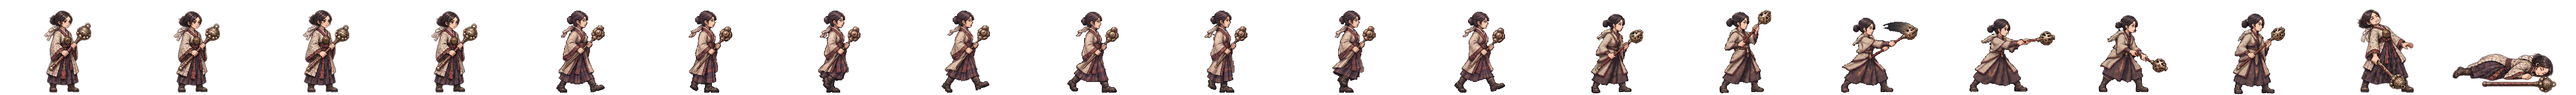
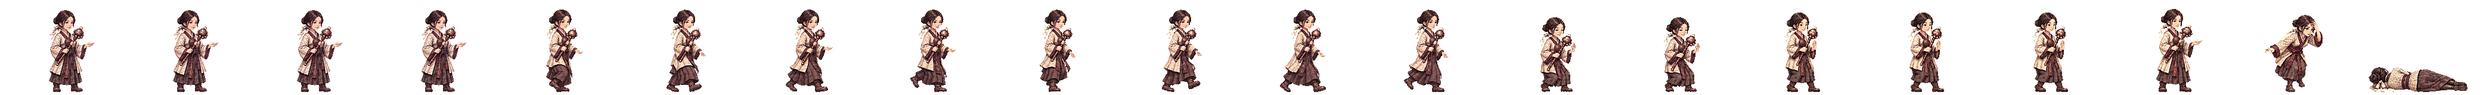
고구려 귀부인 새 띠: 공 모양 방울 막대 + 손바닥 밀기 시전·걷기·방울 흔들기·맞음·쓰러짐 (띠 검사 합격 · 옛 2배 띠 연결 뺌 · 테스트 실패 2는 76-PACE 쪽 별건)
Claude-Session: https://claude.ai/code/session_01TRiuN7s6aDfSnaHxrkctmU

diff --git a/src/realm/data/spritePx.ts b/src/realm/data/spritePx.ts
@@ -1,3 +1,3 @@
 /** public/realm/anim-px/manifest.json 의 사본 — tools/sprite-normalize.mjs 가 만든다 (손으로 고치지 말 것). 칸 [가로, 세로] · feet = 발 줄(칸 위에서 y) · bodyPx = 서 있는 몸 키 */
 import { expandManifest } from './sprite-manifest.ts'
-export const SPRITE_PX: Readonly<Record<string, { readonly cell: readonly [number, number]; readonly feet: number; readonly bodyPx: number; readonly kind: 'general' | 'soldier' | 'folk' | 'crowd'; readonly cells: number }>> = expandManifest<{ readonly cell: readonly [number, number]; readonly feet: number; readonly bodyPx: number; readonly kind: 'general' | 'soldier' | 'folk' | 'crowd'; readonly cells: number }>([{"cell":[166,128],"feet":126,"bodyPx":124,"kind":"soldier","cells":20},{"cell":[116,128],"feet":126,"bodyPx":117,"kind":"soldier","cells":20},{"cell":[127,128],"feet":126,"bodyPx":116,"kind":"soldier","cells":20},{"cell":[269,128],"feet":126,"bodyPx":126,"kind":"soldier","cells":20},{"cell":[503,128],"feet":126,"bodyPx":127,"kind":"soldier","cells":20},{"cell":[614,128],"feet":126,"bodyPx":126,"kind":"soldier","cells":20},{"cell":[200,160],"feet":156,"bodyPx":138,"kind":"general","cells":20},{"cell":[208,160],"feet":155,"bodyPx":138,"kind":"general","cells":20},{"cell":[208,160],"feet":154,"bodyPx":138,"kind":"general","cells":20},{"cell":[304,160],"feet":155,"bodyPx":135,"kind":"general","cells":20},{"cell":[184,160],"feet":156,"bodyPx":138,"kind":"general","cells":20},{"cell":[208,160],"feet":154,"bodyPx":136,"kind":"general","cells":20},{"cell":[232,160],"feet":156,"bodyPx":138,"kind":"general","cells":20},{"cell":[208,160],"feet":156,"bodyPx":138,"kind":"general","cells":20},{"cell":[168,160],"feet":156,"bodyPx":124,"kind":"general","cells":20},{"cell":[216,160],"feet":156,"bodyPx":130,"kind":"general","cells":20},{"cell":[200,160],"feet":156,"bodyPx":116,"kind":"general","cells":20},{"cell":[192,160],"feet":156,"bodyPx":138,"kind":"general","cells":20},{"cell":[208,160],"feet":154,"bodyPx":135,"kind":"general","cells":20},{"cell":[280,160],"feet":156,"bodyPx":138,"kind":"general","cells":20},{"cell":[232,160],"feet":156,"bodyPx":134,"kind":"general","cells":20},{"cell":[144,160],"feet":156,"bodyPx":70,"kind":"general","cells":20},{"cell":[208,160],"feet":156,"bodyPx":70,"kind":"general","cells":20},{"cell":[192,160],"feet":156,"bodyPx":70,"kind":"general","cells":20},{"cell":[240,160],"feet":155,"bodyPx":138,"kind":"general","cells":20},{"cell":[160,160],"feet":156,"bodyPx":135,"kind":"general","cells":20},{"cell":[192,160],"feet":156,"bodyPx":128,"kind":"general","cells":20},{"cell":[224,160],"feet":155,"bodyPx":138,"kind":"general","cells":20},{"cell":[208,160],"feet":154,"bodyPx":137,"kind":"general","cells":20},{"cell":[216,160],"feet":156,"bodyPx":138,"kind":"general","cells":20},{"cell":[208,160],"feet":156,"bodyPx":134,"kind":"general","cells":20},{"cell":[208,160],"feet":154,"bodyPx":130,"kind":"general","cells":20},{"cell":[248,160],"feet":156,"bodyPx":138,"kind":"general","cells":20},{"cell":[248,160],"feet":155,"bodyPx":138,"kind":"general","cells":20},{"cell":[192,160],"feet":155,"bodyPx":138,"kind":"general","cells":20},{"cell":[192,160],"feet":156,"bodyPx":124,"kind":"general","cells":20},{"cell":[208,160],"feet":154,"bodyPx":131,"kind":"general","cells":20},{"cell":[256,160],"feet":156,"bodyPx":138,"kind":"general","cells":20},{"cell":[240,160],"feet":156,"bodyPx":138,"kind":"general","cells":20},{"cell":[232,160],"feet":156,"bodyPx":139,"kind":"general","cells":20},{"cell":[232,160],"feet":156,"bodyPx":73,"kind":"general","cells":20},{"cell":[264,160],"feet":156,"bodyPx":138,"kind":"general","cells":20},{"cell":[224,160],"feet":156,"bodyPx":138,"kind":"general","cells":20},{"cell":[224,160],"feet":156,"bodyPx":128,"kind":"general","cells":20},{"cell":[176,160],"feet":156,"bodyPx":129,"kind":"general","cells":20},{"cell":[208,160],"feet":154,"bodyPx":139,"kind":"general","cells":20},{"cell":[232,160],"feet":155,"bodyPx":138,"kind":"general","cells":20},{"cell":[208,160],"feet":156,"bodyPx":132,"kind":"general","cells":20},{"cell":[184,160],"feet":156,"bodyPx":122,"kind":"general","cells":20},{"cell":[280,160],"feet":155,"bodyPx":133,"kind":"general","cells":20},{"cell":[176,160],"feet":156,"bodyPx":70,"kind":"general","cells":20},{"cell":[186,128],"feet":126,"bodyPx":127,"kind":"soldier","cells":20},{"cell":[298,128],"feet":126,"bodyPx":126,"kind":"soldier","cells":20},{"cell":[82,128],"feet":126,"bodyPx":114,"kind":"folk","cells":8},{"cell":[134,128],"feet":126,"bodyPx":119,"kind":"soldier","cells":20},{"cell":[380,128],"feet":126,"bodyPx":124,"kind":"soldier","cells":20},{"cell":[114,128],"feet":126,"bodyPx":115,"kind":"soldier","cells":20},{"cell":[122,128],"feet":126,"bodyPx":114,"kind":"soldier","cells":20},{"cell":[254,128],"feet":126,"bodyPx":128,"kind":"soldier","cells":20},{"cell":[438,128],"feet":126,"bodyPx":126,"kind":"soldier","cells":20},{"cell":[88,128],"feet":126,"bodyPx":113,"kind":"folk","cells":8},{"cell":[100,128],"feet":126,"bodyPx":115,"kind":"folk","cells":8},{"cell":[108,128],"feet":126,"bodyPx":115,"kind":"folk","cells":8},{"cell":[63,128],"feet":126,"bodyPx":113,"kind":"folk","cells":8},{"cell":[69,96],"feet":96,"bodyPx":96,"kind":"crowd","cells":1},{"cell":[54,96],"feet":96,"bodyPx":96,"kind":"crowd","cells":1},{"cell":[47,96],"feet":96,"bodyPx":96,"kind":"crowd","cells":1},{"cell":[49,96],"feet":96,"bodyPx":96,"kind":"crowd","cells":1},{"cell":[57,96],"feet":96,"bodyPx":96,"kind":"crowd","cells":1},{"cell":[55,96],"feet":96,"bodyPx":96,"kind":"crowd","cells":1},{"cell":[45,96],"feet":96,"bodyPx":96,"kind":"crowd","cells":1},{"cell":[53,96],"feet":96,"bodyPx":96,"kind":"crowd","cells":1},{"cell":[64,96],"feet":96,"bodyPx":96,"kind":"crowd","cells":1},{"cell":[184,160],"feet":156,"bodyPx":124,"kind":"general","cells":20},{"cell":[208,160],"feet":154,"bodyPx":134,"kind":"general","cells":20},{"cell":[224,160],"feet":156,"bodyPx":133,"kind":"general","cells":20},{"cell":[192,160],"feet":156,"bodyPx":135,"kind":"general","cells":20},{"cell":[184,160],"feet":156,"bodyPx":137,"kind":"general","cells":20},{"cell":[176,160],"feet":156,"bodyPx":130,"kind":"general","cells":20},{"cell":[216,160],"feet":156,"bodyPx":134,"kind":"general","cells":20},{"cell":[216,160],"feet":156,"bodyPx":132,"kind":"general","cells":20},{"cell":[288,160],"feet":156,"bodyPx":138,"kind":"general","cells":20},{"cell":[192,160],"feet":156,"bodyPx":118,"kind":"general","cells":20},{"cell":[208,160],"feet":154,"bodyPx":132,"kind":"general","cells":20},{"cell":[208,160],"feet":154,"bodyPx":128,"kind":"general","cells":20},{"cell":[240,160],"feet":156,"bodyPx":128,"kind":"general","cells":20},{"cell":[184,160],"feet":156,"bodyPx":132,"kind":"general","cells":20},{"cell":[208,160],"feet":156,"bodyPx":123,"kind":"general","cells":20},{"cell":[176,160],"feet":156,"bodyPx":116,"kind":"general","cells":20},{"cell":[272,160],"feet":156,"bodyPx":138,"kind":"general","cells":20},{"cell":[176,160],"feet":156,"bodyPx":138,"kind":"general","cells":20},{"cell":[176,160],"feet":156,"bodyPx":122,"kind":"general","cells":20},{"cell":[232,160],"feet":156,"bodyPx":127,"kind":"general","cells":20},{"cell":[184,160],"feet":156,"bodyPx":134,"kind":"general","cells":20},{"cell":[168,160],"feet":156,"bodyPx":138,"kind":"general","cells":20},{"cell":[176,160],"feet":156,"bodyPx":137,"kind":"general","cells":20},{"cell":[184,160],"feet":156,"bodyPx":133,"kind":"general","cells":20}],[["axe",0],["bandit-chief",1],["bandit-club",2],["boat",3],["bow",4],["crossbow",5],["gen-adogan",6],["gen-alpyeong",7],["gen-ara",8],["gen-areum",8],["gen-aryeong",9],["gen-bakdal",8],["gen-baram",8],["gen-bdanbi",10],["gen-beom",11],["gen-beombal",8],["gen-beomi",8],["gen-bira",12],["gen-biryu",13],["gen-budeul",8],["gen-byeol",8],["gen-daemusin",14],["gen-daeso",15],["gen-dallae2",10],["gen-dalli",8],["gen-damul",16],["gen-danbi",8],["gen-dangung",17],["gen-darae",18],["gen-dokmudeom",8],["gen-duman",19],["gen-eomni",8],["gen-eureum",20],["gen-g-bow",21],["gen-g-spear",22],["gen-g-sword",23],["gen-gaennae",8],["gen-gamsil",24],["gen-gaon",25],["gen-geota",13],["gen-geumbawi",10],["gen-geumha",26],["gen-goeun",13],["gen-gom",27],["gen-gomok",13],["gen-gureum",8],["gen-guryema",17],["gen-gwaeyu",12],["gen-haebi",8],["gen-haedal",6],["gen-haesol",8],["gen-halla",28],["gen-heo",8],["gen-hneoul",10],["gen-hogong",29],["gen-hojin",13],["gen-horselord",30],["gen-hwalmi",31],["gen-hyeokgeose",17],["gen-hyeopbo",6],["gen-irang",8],["gen-jibaekho",32],["gen-jinha",33],["gen-jita",34],["gen-jumong",35],["gen-keundol",7],["gen-maehwa",36],["gen-maenun",17],["gen-malgalgi",37],["gen-mari",38],["gen-maro",32],["gen-maryeo",13],["gen-mdallae",39],["gen-mir",6],["gen-mount",40],["gen-mulbeom",28],["gen-mulsae",28],["gen-musoe",29],["gen-noeul",8],["gen-nuri",41],["gen-ocheongan",42],["gen-odi",8],["gen-odogan",6],["gen-ogan",17],["gen-oi",43],["gen-olddaeso",20],["gen-onjo",44],["gen-pidogan",13],["gen-sagong",45],["gen-sdallae",6],["gen-sincheongan",8],["gen-singwigan",29],["gen-sinneoul",8],["gen-sobeol",46],["gen-soebi",6],["gen-soebo",47],["gen-soenun",45],["gen-sogeumbi",28],["gen-songbi",42],["gen-songyang",48],["gen-sori",8],["gen-soseono",49],["gen-suro",17],["gen-tahae",6],["gen-tneoul",8],["gen-w-bow",21],["gen-w-spear",50],["gen-waechief",13],["gen-wan",29],["gen-yeodogan",13],["gen-yucheongan",8],["gen-yusugan",32],["horse",51],["marine",52],["migrant",53],["militia",54],["pike",55],["pirate-captain",56],["pirate-sword",57],["shield",58],["spear",59],["villager-builder",60],["villager-farmer",61],["villager-porter",62],["villager-woman",63],["crowd-b1",64],["crowd-b2",65],["crowd-b3",66],["crowd-b4",67],["crowd-b5",68],["crowd-b6",69],["crowd-f1",64],["crowd-f2",69],["crowd-f3",70],["crowd-f4",71],["crowd-f5",64],["crowd-f6",72],["gen-dalbit",13],["gen-base-g-07-drunk-warrior",17],["gen-base-g-40-anya-adan",13],["gen-base-w-13-young-archer",8],["gen-base-g-03-sea-trader",38],["gen-base-w-10-pirate-captain",45],["gen-base-w-64-miri-dallae",45],["gen-base-g-41-goja-bau",38],["gen-base-g-42-dokro-garam",41],["gen-base-g-09-farmer-conscript",29],["gen-base-w-02-goguryeo-lady",29],["gen-base-w-17-mahan-pearl-diver",8],["gen-base-g-17-saro-isageum",47],["gen-base-g-18-daegaya-king",73],["gen-base-g-35-dabeol-dalgu",13],["gen-base-g-19-sabeol-veteran",29],["gen-base-w-23-usisan-whale-queen",8],["gen-base-g-36-gammun-gamdol",42],["gen-base-g-20-samul-sea-lord",37],["gen-base-g-37-eumjeup-jeup",10],["gen-base-g-38-chopal-palmae",17],["gen-base-w-75-daegaya-soemoe",17],["gen-base-g-45-dabeol-deulgae",10],["gen-base-g-04-jinhan-giant",13],["gen-base-g-08-veteran",13],["gen-base-w-18-jinhan-salt-widow",8],["gen-base-w-12-court-dancer",74],["gen-base-w-83-gyeonji-beodeul",75],["gen-base-w-05-baekje-queen",76],["gen-base-w-21-baekje-court-dancer",10],["gen-base-g-01-master-smith",77],["gen-base-g-93-jomun-solgae",78],["gen-base-g-57-bihwa-neup",38],["gen-base-w-72-eumjeup-beol",8],["gen-base-w-102-garak-dana",45],["gen-base-g-68-baekje-onnuri",13],["gen-base-w-27-mokji-jinha",6],["gen-base-g-22-ungcheon-gomnae",6],["gen-base-g-23-sangdang-soedal",13],["gen-base-g-24-wansan-onsan",6],["gen-base-g-25-balla-keunmoe",29],["gen-base-g-61-heomcheuk-bawi",29],["gen-base-g-88-wander-soeul",42],["gen-base-w-14-feast-spy",8],["gen-base-g-12-silla-youth",79],["gen-base-w-08-mahan-warrior",8],["gen-base-g-62-beonye-hanul",38],["gen-base-g-63-heomcheuk-beogeum",13],["gen-base-g-84-wander-seoneul",13],["gen-base-w-50-siljik-mulga",29],["gen-base-g-46-uga-nureongso",29],["gen-base-w-80-usan-gangchi",45],["gen-base-g-47-guga-sanyanggae",29],["gen-base-w-76-gampyeong-baetsagong",8],["gen-base-g-05-mahan-chieftain",80],["gen-base-g-58-usan-uhae",13],["gen-base-g-27-maek-maekdol",13],["gen-base-w-53-hwanna-gabi",45],["gen-base-w-29-golpo-janmul",32],["gen-base-g-53-baekje-haeru",6],["gen-base-w-71-yeonna-neoul",8],["gen-base-w-79-yangmaek-solmae",8],["gen-base-w-34-chopal-deulme",8],["gen-base-g-44-maga-malgup",81],["gen-base-w-31-dabeol-dalbit",45],["gen-base-g-51-biryuna-mulgyeol",42],["gen-base-g-48-gwanna-musoe",13],["gen-base-g-32-uga-sodu",12],["gen-base-g-49-goguryeo-sona",82],["gen-base-g-30-gwanna-soemoe",42],["gen-base-g-52-tamna-oreum",10],["gen-base-g-29-yeonna-myeongsol",35],["gen-base-w-56-dongokjeo-sogeum",74],["gen-base-g-54-mokji-mahan",12],["gen-base-g-33-jeoga-metdol",17],["gen-base-w-36-baekje-maena",8],["gen-base-w-38-sangdang-bulmae",6],["gen-base-w-39-gosaburi-galmae",8],["gen-base-w-40-mujin-munui",83],["gen-base-w-41-hwanna-beodeul",84],["gen-base-w-43-uga-nuri",37],["gen-base-w-45-tamna-oreumbi",10],["gen-base-g-60-golbeol-golgae",10],["gen-base-g-61-apdok-ap",29],["gen-base-g-62-gammun-gamnamu",6],["gen-base-g-63-chopal-yeoul",32],["gen-base-g-64-michuhol-sogeumkkun",38],["gen-base-g-65-sangdang-soemangchi",42],["gen-base-g-66-geonma-malbalgup",85],["gen-base-g-67-gosaburi-buri",86],["gen-base-g-68-mujin-bitgoeul",10],["gen-base-g-69-goryong-yong",42],["gen-base-g-70-siljik-pado",38],["gen-base-w-81-byeokjin-byeolbit",8],["gen-base-w-46-geonma-maru",8],["gen-base-w-48-mujin-mudeung",8],["gen-base-g-26-gampyeong-gaetbeol",12],["gen-base-g-60-eupcha-hangyeol",87],["gen-base-g-15-shaman-man",29],["gen-base-g-85-wander-ure",32],["gen-base-g-43-hwanna-amnok",13],["gen-base-g-50-bullae-gwaha",76],["gen-base-g-55-saro-bakdal",13],["gen-base-g-56-haseulla-gwahama",6],["gen-base-w-06-buyeo-huntress",28],["gen-base-w-22-dongye-tiger-huntress",8],["gen-base-w-25-bihwa-priestess",8],["gen-base-w-24-apdok-queen",10],["gen-base-w-61-iseo-sinae",13],["gen-base-w-26-iseo-tomboy-general",8],["gen-base-g-59-yangmaek-maekson",88],["gen-aw1-haebi",42],["gen-aw1-soseono",89],["gen-aw1-gamsil",10],["gen-aw1-mir",90],["gen-aw1-dangung",6],["gen-aw1-ara",42],["gen-aw1-jumong",91],["gen-aw1-onjo",92],["gen-aw1-base-w-83-gyeonji-beodeul",17],["gen-aw1-heo",41],["gen-aw1-base-g-38-chopal-palmae",6],["gen-aw1-base-w-25-bihwa-priestess",93],["gen-aw1-sori",94],["gen-aw1-gomok",6],["gen-aw1-irang",17],["gen-aw1-budeul",94],["gen-aw1-gom",38],["gen-aw1-sdallae",6],["gen-aw1-base-w-13-young-archer",6],["gen-aw1-base-w-36-baekje-maena",95],["gen-aw1-base-g-09-farmer-conscript",41],["gen-aw1-base-w-02-goguryeo-lady",96],["gen-aw1-haedal",10],["gen-aw1-hogong",6],["gen-aw1-maehwa",90],["gen-aw1-base-w-06-buyeo-huntress",12],["gen-aw1-base-w-08-mahan-warrior",42],["gen-aw1-base-w-29-golpo-janmul",42],["gen-aw1-base-w-31-dabeol-dalbit",17],["gen-aw1-base-w-38-sangdang-bulmae",94],["gen-aw1-bira",29],["gen-aw1-base-w-53-hwanna-gabi",94],["gen-aw1-base-w-56-dongokjeo-sogeum",90],["gen-aw1-base-w-72-eumjeup-beol",17],["gen-aw1-bdanbi",94],["gen-aw1-beom",10],["gen-aw1-beombal",10],["gen-aw1-byeol",17],["gen-aw1-dalli",90],["gen-aw1-malgalgi",32],["gen-aw1-sincheongan",29]])
+export const SPRITE_PX: Readonly<Record<string, { readonly cell: readonly [number, number]; readonly feet: number; readonly bodyPx: number; readonly kind: 'general' | 'soldier' | 'folk' | 'crowd'; readonly cells: number }>> = expandManifest<{ readonly cell: readonly [number, number]; readonly feet: number; readonly bodyPx: number; readonly kind: 'general' | 'soldier' | 'folk' | 'crowd'; readonly cells: number }>([{"cell":[166,128],"feet":126,"bodyPx":124,"kind":"soldier","cells":20},{"cell":[116,128],"feet":126,"bodyPx":117,"kind":"soldier","cells":20},{"cell":[127,128],"feet":126,"bodyPx":116,"kind":"soldier","cells":20},{"cell":[269,128],"feet":126,"bodyPx":126,"kind":"soldier","cells":20},{"cell":[503,128],"feet":126,"bodyPx":127,"kind":"soldier","cells":20},{"cell":[614,128],"feet":126,"bodyPx":126,"kind":"soldier","cells":20},{"cell":[200,160],"feet":156,"bodyPx":138,"kind":"general","cells":20},{"cell":[208,160],"feet":155,"bodyPx":138,"kind":"general","cells":20},{"cell":[208,160],"feet":154,"bodyPx":138,"kind":"general","cells":20},{"cell":[304,160],"feet":155,"bodyPx":135,"kind":"general","cells":20},{"cell":[184,160],"feet":156,"bodyPx":138,"kind":"general","cells":20},{"cell":[208,160],"feet":154,"bodyPx":136,"kind":"general","cells":20},{"cell":[232,160],"feet":156,"bodyPx":138,"kind":"general","cells":20},{"cell":[208,160],"feet":156,"bodyPx":138,"kind":"general","cells":20},{"cell":[168,160],"feet":156,"bodyPx":124,"kind":"general","cells":20},{"cell":[216,160],"feet":156,"bodyPx":130,"kind":"general","cells":20},{"cell":[200,160],"feet":156,"bodyPx":116,"kind":"general","cells":20},{"cell":[192,160],"feet":156,"bodyPx":138,"kind":"general","cells":20},{"cell":[208,160],"feet":154,"bodyPx":135,"kind":"general","cells":20},{"cell":[280,160],"feet":156,"bodyPx":138,"kind":"general","cells":20},{"cell":[232,160],"feet":156,"bodyPx":134,"kind":"general","cells":20},{"cell":[144,160],"feet":156,"bodyPx":70,"kind":"general","cells":20},{"cell":[208,160],"feet":156,"bodyPx":70,"kind":"general","cells":20},{"cell":[192,160],"feet":156,"bodyPx":70,"kind":"general","cells":20},{"cell":[240,160],"feet":155,"bodyPx":138,"kind":"general","cells":20},{"cell":[160,160],"feet":156,"bodyPx":135,"kind":"general","cells":20},{"cell":[192,160],"feet":156,"bodyPx":128,"kind":"general","cells":20},{"cell":[224,160],"feet":155,"bodyPx":138,"kind":"general","cells":20},{"cell":[208,160],"feet":154,"bodyPx":137,"kind":"general","cells":20},{"cell":[216,160],"feet":156,"bodyPx":138,"kind":"general","cells":20},{"cell":[208,160],"feet":156,"bodyPx":134,"kind":"general","cells":20},{"cell":[208,160],"feet":154,"bodyPx":130,"kind":"general","cells":20},{"cell":[248,160],"feet":156,"bodyPx":138,"kind":"general","cells":20},{"cell":[248,160],"feet":155,"bodyPx":138,"kind":"general","cells":20},{"cell":[192,160],"feet":155,"bodyPx":138,"kind":"general","cells":20},{"cell":[192,160],"feet":156,"bodyPx":124,"kind":"general","cells":20},{"cell":[208,160],"feet":154,"bodyPx":131,"kind":"general","cells":20},{"cell":[256,160],"feet":156,"bodyPx":138,"kind":"general","cells":20},{"cell":[240,160],"feet":156,"bodyPx":138,"kind":"general","cells":20},{"cell":[232,160],"feet":156,"bodyPx":139,"kind":"general","cells":20},{"cell":[232,160],"feet":156,"bodyPx":73,"kind":"general","cells":20},{"cell":[264,160],"feet":156,"bodyPx":138,"kind":"general","cells":20},{"cell":[224,160],"feet":156,"bodyPx":138,"kind":"general","cells":20},{"cell":[224,160],"feet":156,"bodyPx":128,"kind":"general","cells":20},{"cell":[176,160],"feet":156,"bodyPx":129,"kind":"general","cells":20},{"cell":[208,160],"feet":154,"bodyPx":139,"kind":"general","cells":20},{"cell":[232,160],"feet":155,"bodyPx":138,"kind":"general","cells":20},{"cell":[208,160],"feet":156,"bodyPx":132,"kind":"general","cells":20},{"cell":[184,160],"feet":156,"bodyPx":122,"kind":"general","cells":20},{"cell":[280,160],"feet":155,"bodyPx":133,"kind":"general","cells":20},{"cell":[176,160],"feet":156,"bodyPx":70,"kind":"general","cells":20},{"cell":[186,128],"feet":126,"bodyPx":127,"kind":"soldier","cells":20},{"cell":[298,128],"feet":126,"bodyPx":126,"kind":"soldier","cells":20},{"cell":[82,128],"feet":126,"bodyPx":114,"kind":"folk","cells":8},{"cell":[134,128],"feet":126,"bodyPx":119,"kind":"soldier","cells":20},{"cell":[380,128],"feet":126,"bodyPx":124,"kind":"soldier","cells":20},{"cell":[114,128],"feet":126,"bodyPx":115,"kind":"soldier","cells":20},{"cell":[122,128],"feet":126,"bodyPx":114,"kind":"soldier","cells":20},{"cell":[254,128],"feet":126,"bodyPx":128,"kind":"soldier","cells":20},{"cell":[438,128],"feet":126,"bodyPx":126,"kind":"soldier","cells":20},{"cell":[88,128],"feet":126,"bodyPx":113,"kind":"folk","cells":8},{"cell":[100,128],"feet":126,"bodyPx":115,"kind":"folk","cells":8},{"cell":[108,128],"feet":126,"bodyPx":115,"kind":"folk","cells":8},{"cell":[63,128],"feet":126,"bodyPx":113,"kind":"folk","cells":8},{"cell":[69,96],"feet":96,"bodyPx":96,"kind":"crowd","cells":1},{"cell":[54,96],"feet":96,"bodyPx":96,"kind":"crowd","cells":1},{"cell":[47,96],"feet":96,"bodyPx":96,"kind":"crowd","cells":1},{"cell":[49,96],"feet":96,"bodyPx":96,"kind":"crowd","cells":1},{"cell":[57,96],"feet":96,"bodyPx":96,"kind":"crowd","cells":1},{"cell":[55,96],"feet":96,"bodyPx":96,"kind":"crowd","cells":1},{"cell":[45,96],"feet":96,"bodyPx":96,"kind":"crowd","cells":1},{"cell":[53,96],"feet":96,"bodyPx":96,"kind":"crowd","cells":1},{"cell":[64,96],"feet":96,"bodyPx":96,"kind":"crowd","cells":1},{"cell":[184,160],"feet":156,"bodyPx":124,"kind":"general","cells":20},{"cell":[208,160],"feet":154,"bodyPx":134,"kind":"general","cells":20},{"cell":[224,160],"feet":156,"bodyPx":133,"kind":"general","cells":20},{"cell":[192,160],"feet":156,"bodyPx":135,"kind":"general","cells":20},{"cell":[184,160],"feet":156,"bodyPx":137,"kind":"general","cells":20},{"cell":[176,160],"feet":156,"bodyPx":130,"kind":"general","cells":20},{"cell":[216,160],"feet":156,"bodyPx":134,"kind":"general","cells":20},{"cell":[216,160],"feet":156,"bodyPx":132,"kind":"general","cells":20},{"cell":[288,160],"feet":156,"bodyPx":138,"kind":"general","cells":20},{"cell":[192,160],"feet":156,"bodyPx":118,"kind":"general","cells":20},{"cell":[208,160],"feet":154,"bodyPx":132,"kind":"general","cells":20},{"cell":[208,160],"feet":154,"bodyPx":128,"kind":"general","cells":20},{"cell":[240,160],"feet":156,"bodyPx":128,"kind":"general","cells":20},{"cell":[184,160],"feet":156,"bodyPx":132,"kind":"general","cells":20},{"cell":[208,160],"feet":156,"bodyPx":123,"kind":"general","cells":20},{"cell":[176,160],"feet":156,"bodyPx":116,"kind":"general","cells":20},{"cell":[272,160],"feet":156,"bodyPx":138,"kind":"general","cells":20},{"cell":[176,160],"feet":156,"bodyPx":138,"kind":"general","cells":20},{"cell":[176,160],"feet":156,"bodyPx":122,"kind":"general","cells":20},{"cell":[232,160],"feet":156,"bodyPx":127,"kind":"general","cells":20},{"cell":[184,160],"feet":156,"bodyPx":134,"kind":"general","cells":20},{"cell":[168,160],"feet":156,"bodyPx":138,"kind":"general","cells":20},{"cell":[176,160],"feet":156,"bodyPx":137,"kind":"general","cells":20},{"cell":[184,160],"feet":156,"bodyPx":133,"kind":"general","cells":20}],[["axe",0],["bandit-chief",1],["bandit-club",2],["boat",3],["bow",4],["crossbow",5],["gen-adogan",6],["gen-alpyeong",7],["gen-ara",8],["gen-areum",8],["gen-aryeong",9],["gen-bakdal",8],["gen-baram",8],["gen-bdanbi",10],["gen-beom",11],["gen-beombal",8],["gen-beomi",8],["gen-bira",12],["gen-biryu",13],["gen-budeul",8],["gen-byeol",8],["gen-daemusin",14],["gen-daeso",15],["gen-dallae2",10],["gen-dalli",8],["gen-damul",16],["gen-danbi",8],["gen-dangung",17],["gen-darae",18],["gen-dokmudeom",8],["gen-duman",19],["gen-eomni",8],["gen-eureum",20],["gen-g-bow",21],["gen-g-spear",22],["gen-g-sword",23],["gen-gaennae",8],["gen-gamsil",24],["gen-gaon",25],["gen-geota",13],["gen-geumbawi",10],["gen-geumha",26],["gen-goeun",13],["gen-gom",27],["gen-gomok",13],["gen-gureum",8],["gen-guryema",17],["gen-gwaeyu",12],["gen-haebi",8],["gen-haedal",6],["gen-haesol",8],["gen-halla",28],["gen-heo",8],["gen-hneoul",10],["gen-hogong",29],["gen-hojin",13],["gen-horselord",30],["gen-hwalmi",31],["gen-hyeokgeose",17],["gen-hyeopbo",6],["gen-irang",8],["gen-jibaekho",32],["gen-jinha",33],["gen-jita",34],["gen-jumong",35],["gen-keundol",7],["gen-maehwa",36],["gen-maenun",17],["gen-malgalgi",37],["gen-mari",38],["gen-maro",32],["gen-maryeo",13],["gen-mdallae",39],["gen-mir",6],["gen-mount",40],["gen-mulbeom",28],["gen-mulsae",28],["gen-musoe",29],["gen-noeul",8],["gen-nuri",41],["gen-ocheongan",42],["gen-odi",8],["gen-odogan",6],["gen-ogan",17],["gen-oi",43],["gen-olddaeso",20],["gen-onjo",44],["gen-pidogan",13],["gen-sagong",45],["gen-sdallae",6],["gen-sincheongan",8],["gen-singwigan",29],["gen-sinneoul",8],["gen-sobeol",46],["gen-soebi",6],["gen-soebo",47],["gen-soenun",45],["gen-sogeumbi",28],["gen-songbi",42],["gen-songyang",48],["gen-sori",8],["gen-soseono",49],["gen-suro",17],["gen-tahae",6],["gen-tneoul",8],["gen-w-bow",21],["gen-w-spear",50],["gen-waechief",13],["gen-wan",29],["gen-yeodogan",13],["gen-yucheongan",8],["gen-yusugan",32],["horse",51],["marine",52],["migrant",53],["militia",54],["pike",55],["pirate-captain",56],["pirate-sword",57],["shield",58],["spear",59],["villager-builder",60],["villager-farmer",61],["villager-porter",62],["villager-woman",63],["crowd-b1",64],["crowd-b2",65],["crowd-b3",66],["crowd-b4",67],["crowd-b5",68],["crowd-b6",69],["crowd-f1",64],["crowd-f2",69],["crowd-f3",70],["crowd-f4",71],["crowd-f5",64],["crowd-f6",72],["gen-dalbit",13],["gen-base-g-07-drunk-warrior",17],["gen-base-g-40-anya-adan",13],["gen-base-w-13-young-archer",8],["gen-base-g-03-sea-trader",38],["gen-base-w-10-pirate-captain",45],["gen-base-w-64-miri-dallae",45],["gen-base-g-41-goja-bau",38],["gen-base-g-42-dokro-garam",41],["gen-base-g-09-farmer-conscript",29],["gen-base-w-02-goguryeo-lady",8],["gen-base-w-17-mahan-pearl-diver",8],["gen-base-g-17-saro-isageum",47],["gen-base-g-18-daegaya-king",73],["gen-base-g-35-dabeol-dalgu",13],["gen-base-g-19-sabeol-veteran",29],["gen-base-w-23-usisan-whale-queen",8],["gen-base-g-36-gammun-gamdol",42],["gen-base-g-20-samul-sea-lord",37],["gen-base-g-37-eumjeup-jeup",10],["gen-base-g-38-chopal-palmae",17],["gen-base-w-75-daegaya-soemoe",17],["gen-base-g-45-dabeol-deulgae",10],["gen-base-g-04-jinhan-giant",13],["gen-base-g-08-veteran",13],["gen-base-w-18-jinhan-salt-widow",8],["gen-base-w-12-court-dancer",74],["gen-base-w-83-gyeonji-beodeul",75],["gen-base-w-05-baekje-queen",76],["gen-base-w-21-baekje-court-dancer",10],["gen-base-g-01-master-smith",77],["gen-base-g-93-jomun-solgae",78],["gen-base-g-57-bihwa-neup",38],["gen-base-w-72-eumjeup-beol",8],["gen-base-w-102-garak-dana",45],["gen-base-g-68-baekje-onnuri",13],["gen-base-w-27-mokji-jinha",6],["gen-base-g-22-ungcheon-gomnae",6],["gen-base-g-23-sangdang-soedal",13],["gen-base-g-24-wansan-onsan",6],["gen-base-g-25-balla-keunmoe",29],["gen-base-g-61-heomcheuk-bawi",29],["gen-base-g-88-wander-soeul",42],["gen-base-w-14-feast-spy",8],["gen-base-g-12-silla-youth",79],["gen-base-w-08-mahan-warrior",8],["gen-base-g-62-beonye-hanul",38],["gen-base-g-63-heomcheuk-beogeum",13],["gen-base-g-84-wander-seoneul",13],["gen-base-w-50-siljik-mulga",29],["gen-base-g-46-uga-nureongso",29],["gen-base-w-80-usan-gangchi",45],["gen-base-g-47-guga-sanyanggae",29],["gen-base-w-76-gampyeong-baetsagong",8],["gen-base-g-05-mahan-chieftain",80],["gen-base-g-58-usan-uhae",13],["gen-base-g-27-maek-maekdol",13],["gen-base-w-53-hwanna-gabi",45],["gen-base-w-29-golpo-janmul",32],["gen-base-g-53-baekje-haeru",6],["gen-base-w-71-yeonna-neoul",8],["gen-base-w-79-yangmaek-solmae",8],["gen-base-w-34-chopal-deulme",8],["gen-base-g-44-maga-malgup",81],["gen-base-w-31-dabeol-dalbit",45],["gen-base-g-51-biryuna-mulgyeol",42],["gen-base-g-48-gwanna-musoe",13],["gen-base-g-32-uga-sodu",12],["gen-base-g-49-goguryeo-sona",82],["gen-base-g-30-gwanna-soemoe",42],["gen-base-g-52-tamna-oreum",10],["gen-base-g-29-yeonna-myeongsol",35],["gen-base-w-56-dongokjeo-sogeum",74],["gen-base-g-54-mokji-mahan",12],["gen-base-g-33-jeoga-metdol",17],["gen-base-w-36-baekje-maena",8],["gen-base-w-38-sangdang-bulmae",6],["gen-base-w-39-gosaburi-galmae",8],["gen-base-w-40-mujin-munui",83],["gen-base-w-41-hwanna-beodeul",84],["gen-base-w-43-uga-nuri",37],["gen-base-w-45-tamna-oreumbi",10],["gen-base-g-60-golbeol-golgae",10],["gen-base-g-61-apdok-ap",29],["gen-base-g-62-gammun-gamnamu",6],["gen-base-g-63-chopal-yeoul",32],["gen-base-g-64-michuhol-sogeumkkun",38],["gen-base-g-65-sangdang-soemangchi",42],["gen-base-g-66-geonma-malbalgup",85],["gen-base-g-67-gosaburi-buri",86],["gen-base-g-68-mujin-bitgoeul",10],["gen-base-g-69-goryong-yong",42],["gen-base-g-70-siljik-pado",38],["gen-base-w-81-byeokjin-byeolbit",8],["gen-base-w-46-geonma-maru",8],["gen-base-w-48-mujin-mudeung",8],["gen-base-g-26-gampyeong-gaetbeol",12],["gen-base-g-60-eupcha-hangyeol",87],["gen-base-g-15-shaman-man",29],["gen-base-g-85-wander-ure",32],["gen-base-g-43-hwanna-amnok",13],["gen-base-g-50-bullae-gwaha",76],["gen-base-g-55-saro-bakdal",13],["gen-base-g-56-haseulla-gwahama",6],["gen-base-w-06-buyeo-huntress",28],["gen-base-w-22-dongye-tiger-huntress",8],["gen-base-w-25-bihwa-priestess",8],["gen-base-w-24-apdok-queen",10],["gen-base-w-61-iseo-sinae",13],["gen-base-w-26-iseo-tomboy-general",8],["gen-base-g-59-yangmaek-maekson",88],["gen-aw1-haebi",42],["gen-aw1-soseono",89],["gen-aw1-gamsil",10],["gen-aw1-mir",90],["gen-aw1-dangung",6],["gen-aw1-ara",42],["gen-aw1-jumong",91],["gen-aw1-onjo",92],["gen-aw1-base-w-83-gyeonji-beodeul",17],["gen-aw1-heo",41],["gen-aw1-base-g-38-chopal-palmae",6],["gen-aw1-base-w-25-bihwa-priestess",93],["gen-aw1-sori",94],["gen-aw1-gomok",6],["gen-aw1-irang",17],["gen-aw1-budeul",94],["gen-aw1-gom",38],["gen-aw1-sdallae",6],["gen-aw1-base-w-13-young-archer",6],["gen-aw1-base-w-36-baekje-maena",95],["gen-aw1-base-g-09-farmer-conscript",41],["gen-aw1-base-w-02-goguryeo-lady",96],["gen-aw1-haedal",10],["gen-aw1-hogong",6],["gen-aw1-maehwa",90],["gen-aw1-base-w-06-buyeo-huntress",12],["gen-aw1-base-w-08-mahan-warrior",42],["gen-aw1-base-w-29-golpo-janmul",42],["gen-aw1-base-w-31-dabeol-dalbit",17],["gen-aw1-base-w-38-sangdang-bulmae",94],["gen-aw1-bira",29],["gen-aw1-base-w-53-hwanna-gabi",94],["gen-aw1-base-w-56-dongokjeo-sogeum",90],["gen-aw1-base-w-72-eumjeup-beol",17],["gen-aw1-bdanbi",94],["gen-aw1-beom",10],["gen-aw1-beombal",10],["gen-aw1-byeol",17],["gen-aw1-dalli",90],["gen-aw1-malgalgi",32],["gen-aw1-sincheongan",29]])

diff --git a/src/duel/view.ts b/src/duel/view.ts
@@ -100,7 +100,7 @@ const crowdFront = [1, 2, 3, 4, 5, 6].map((i) => img(`realm/duel/crowd/b${i}.png
 const crowdReady = (set: HTMLImageElement[]): boolean => set.every((im) => im.complete && im.naturalWidth > 0)
 const pxMode = cfg.px !== false && params.get('px') !== '0'
 /** 겨루기 전용 옛 띠(duel/sprites) 대신 열전과 같은 도트 띠(anim-px)를 쓰는 장수 — 두 판에서 같은 모습 · 서기 계획·쓰러지는 칸도 같다 (11-23 범 · 매화 · 달빛 · 11-24 해비 · 아룸) */
-const PX_DUEL: ReadonlySet<string> = new Set(['beom', 'maehwa', 'base-w-31-dabeol-dalbit', 'haebi', 'areum', 'base-w-13-young-archer', 'base-w-10-pirate-captain', 'base-w-17-mahan-pearl-diver', 'base-w-06-buyeo-huntress', 'base-w-64-miri-dallae', 'ara', 'base-w-22-dongye-tiger-huntress', 'noeul', 'sagong', 'sinneoul', 'heo', 'base-w-08-mahan-warrior', 'base-w-23-usisan-whale-queen', 'base-w-26-iseo-tomboy-general', 'base-w-72-eumjeup-beol', 'tneoul', 'odi', 'base-w-76-gampyeong-baetsagong', 'base-w-34-chopal-deulme', 'base-w-102-garak-dana', 'base-w-36-baekje-maena', 'base-w-56-dongokjeo-sogeum', 'budeul', 'base-w-53-hwanna-gabi', 'base-w-18-jinhan-salt-widow', 'beombal', 'irang', 'sogeumbi', 'baram', 'byeol', 'base-w-71-yeonna-neoul', 'base-w-39-gosaburi-galmae', 'base-w-41-hwanna-beodeul', 'base-w-79-yangmaek-solmae', 'base-w-46-geonma-maru', 'base-w-48-mujin-mudeung', 'base-w-80-usan-gangchi', 'base-w-81-byeokjin-byeolbit', 'beomi', 'danbi', 'dalli', 'gureum', 'haesol', 'soenun', 'eomni', 'mulbeom', 'mulsae', 'bakdal', 'darae', 'sori', 'base-w-12-court-dancer', 'hwalmi', 'gaennae', 'dokmudeom', 'base-w-14-feast-spy', 'base-w-25-bihwa-priestess', 'sincheongan', 'base-w-40-mujin-munui', 'halla', 'yucheongan'])
+const PX_DUEL: ReadonlySet<string> = new Set(['beom', 'maehwa', 'base-w-31-dabeol-dalbit', 'haebi', 'areum', 'base-w-13-young-archer', 'base-w-10-pirate-captain', 'base-w-17-mahan-pearl-diver', 'base-w-06-buyeo-huntress', 'base-w-64-miri-dallae', 'ara', 'base-w-22-dongye-tiger-huntress', 'noeul', 'sagong', 'sinneoul', 'heo', 'base-w-08-mahan-warrior', 'base-w-23-usisan-whale-queen', 'base-w-26-iseo-tomboy-general', 'base-w-72-eumjeup-beol', 'tneoul', 'odi', 'base-w-76-gampyeong-baetsagong', 'base-w-34-chopal-deulme', 'base-w-102-garak-dana', 'base-w-36-baekje-maena', 'base-w-56-dongokjeo-sogeum', 'budeul', 'base-w-53-hwanna-gabi', 'base-w-18-jinhan-salt-widow', 'beombal', 'irang', 'sogeumbi', 'baram', 'byeol', 'base-w-71-yeonna-neoul', 'base-w-39-gosaburi-galmae', 'base-w-41-hwanna-beodeul', 'base-w-79-yangmaek-solmae', 'base-w-46-geonma-maru', 'base-w-48-mujin-mudeung', 'base-w-80-usan-gangchi', 'base-w-81-byeokjin-byeolbit', 'beomi', 'danbi', 'dalli', 'gureum', 'haesol', 'soenun', 'eomni', 'mulbeom', 'mulsae', 'bakdal', 'darae', 'sori', 'base-w-12-court-dancer', 'hwalmi', 'gaennae', 'dokmudeom', 'base-w-14-feast-spy', 'base-w-25-bihwa-priestess', 'sincheongan', 'base-w-40-mujin-munui', 'halla', 'yucheongan', 'base-w-02-goguryeo-lady'])
 /** 띠 그림 — 기본은 anim-px(도트 규격) 먼저, 없으면 옛 띠로 (img 의 onerror 가 갈아 끼운다) */
 const strip = (s: string): HTMLImageElement => pxMode
   ? DUEL_ATLASES[s] !== undefined && !PX_DUEL.has(s) ? img(`realm/duel/sprites/gen-${s}.png`, `realm/anim-px/gen-${s}.png`)

diff --git a/src/tune/params.ts b/src/tune/params.ts
@@ -1525,6 +1525,7 @@ export const HAEBI_IDLE = {
     'base-w-40-mujin-munui': { cells: 38, base: [0, 1], hold: 2.4, fall: [18, 20, 21, 19], quirk: [22, 23, 24, 25], quirkTimes: [.28, .3, .3, .25], attack: { cells: [26, 27, 28, 29, 30, 31, 32, 33], times: [.09, .08, .30, .05, .15, .07, .08, .12], hit: 4 }, hurt: [34, 35], rise: [36, 37], xGeom: { h: 224, root: 92, foot: 216 } },
     halla: { cells: 38, base: [0, 1], hold: 2.4, fall: [18, 20, 21, 19], quirk: [22, 23, 24, 25], quirkTimes: [.28, .3, .3, .25], attack: { cells: [26, 27, 28, 29, 30, 31, 32, 33], times: [.09, .08, .30, .05, .15, .07, .08, .12], hit: 4 }, hurt: [34, 35], rise: [36, 37], xGeom: { h: 224, root: 92, foot: 216 } },
     yucheongan: { cells: 38, base: [0, 1], hold: 2.4, fall: [18, 20, 21, 19], quirk: [22, 23, 24, 25], quirkTimes: [.3, .32, .4, .28], attack: { cells: [26, 27, 28, 29, 30, 31, 32, 33], times: [.09, .08, .30, .05, .15, .07, .08, .12], hit: 4 }, hurt: [34, 35], rise: [36, 37], xGeom: { h: 224, root: 92, foot: 216 } },
+    'base-w-02-goguryeo-lady': { cells: 38, base: [0, 1], hold: 2.4, fall: [18, 20, 21, 19], quirk: [22, 23, 24, 25], quirkTimes: [.3, .32, .4, .28], attack: { cells: [26, 27, 28, 29, 30, 31, 32, 33], times: [.09, .08, .30, .05, .15, .07, .08, .12], hit: 4 }, hurt: [34, 35], rise: [36, 37], xGeom: { h: 224, root: 92, foot: 216 } },
   },
 } as const
 export const HAEBI_ANIM = {

diff --git a/src/raid/hero-hd.ts b/src/raid/hero-hd.ts
@@ -29,7 +29,6 @@ export const HERO_HD: Readonly<Record<string, string>> = {
   'anim-px/gen-aw1-base-w-13-young-archer.png': 'anim-px/gen-aw1-base-w-13-young-archer_hd.png',
   'anim-px/gen-aw1-base-w-08-mahan-warrior.png': 'anim-px/gen-aw1-base-w-08-mahan-warrior_hd.png',
   'anim-px/gen-base-w-05-baekje-queen.png': 'anim-px/gen-base-w-05-baekje-queen_hd.png',
-  'anim-px/gen-base-w-02-goguryeo-lady.png': 'anim-px/gen-base-w-02-goguryeo-lady_hd.png',
   'anim-px/gen-aw1-base-w-06-buyeo-huntress.png': 'anim-px/gen-aw1-base-w-06-buyeo-huntress_hd.png',
   'anim-px/gen-aw1-base-w-02-goguryeo-lady.png': 'anim-px/gen-aw1-base-w-02-goguryeo-lady_hd.png',
   'anim-px/gen-maenun.png': 'anim-px/gen-maenun_hd.png',
